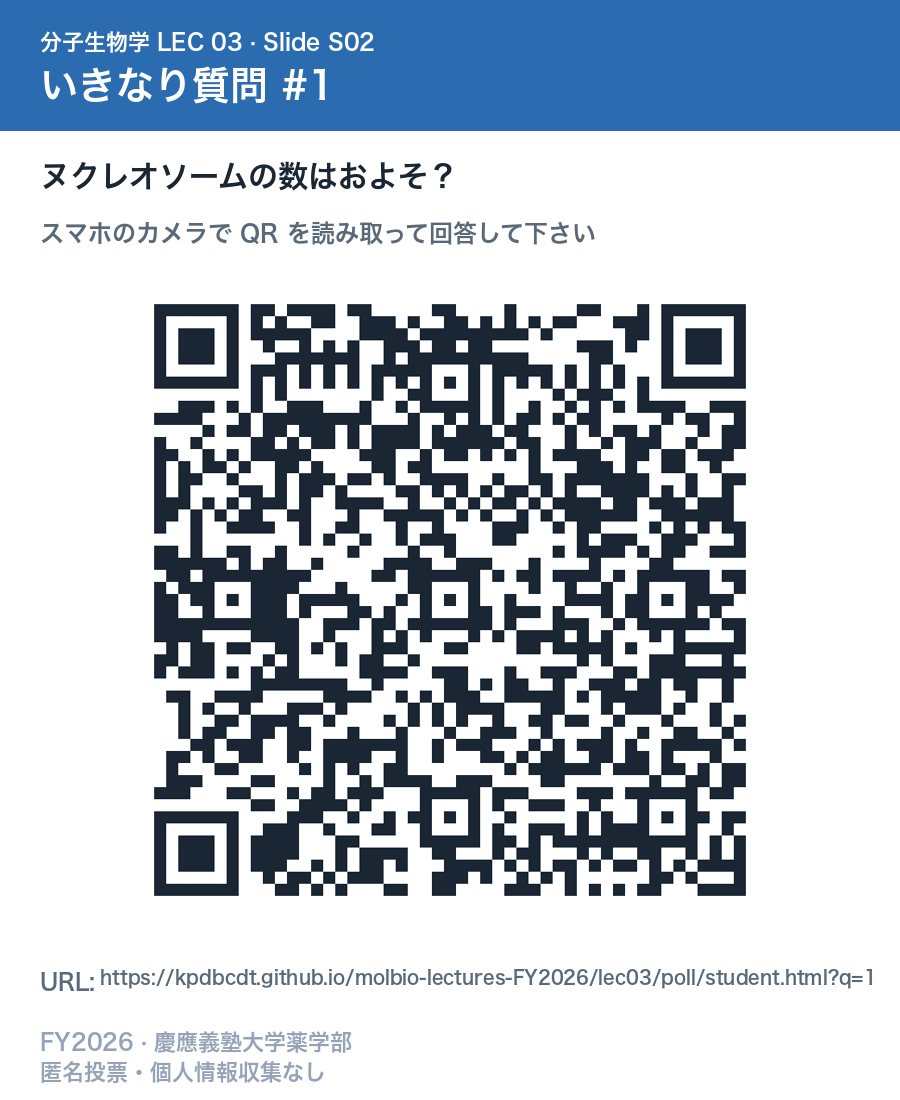
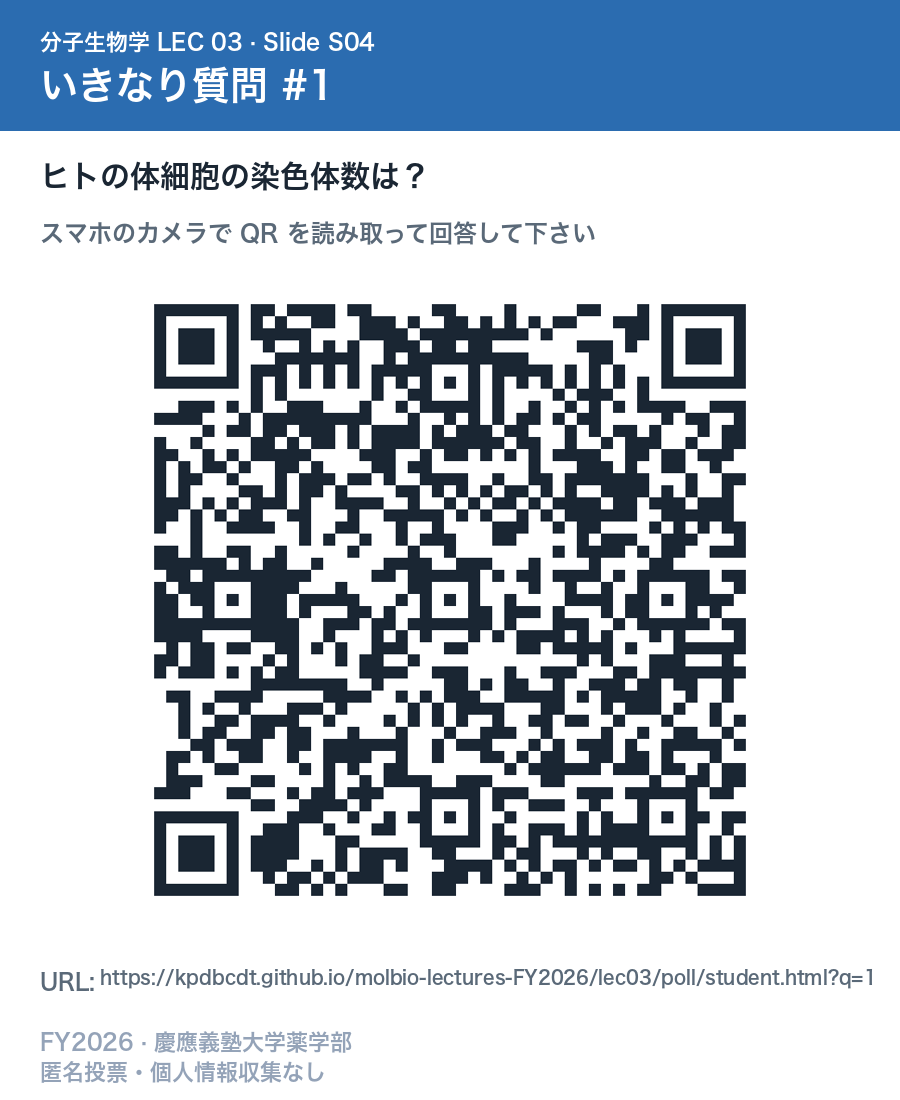
Lec03: align poll-data.js with actual PPTX slides, remove Q3
PPTX only has 2 いきなり質問 slides (S04 染色体数, S12 テロメア長),
so poll-data.js was reconciled:
- Q1: slide S04, chromosome count (23/46/48/92), correct=46
- Q2: slide S12, telomere length (100/1k/10k/100k bp), correct=10kbp
- Q3: removed (no matching PPTX slide)

Firestore rules updated: polls_lec03 allowlist ['q1','q2'].
instructor.html Q3 button removed.
generate_qr.py updated; qr_q3.png removed; QR codes regenerated.

Changed region(s): [[0.0311, 0.1236, 0.4978, 0.1855], [0.4044, 0.0309, 0.4356, 0.0618]]

diff --git a/lec03/poll/poll-data.js b/lec03/poll/poll-data.js
@@ -1,44 +1,31 @@
 // Poll questions for Lec03 — 染色体とゲノム
-// q1-q3: いきなり質問
+// q1-q2: いきなり質問 (matches PPTX S04, S12)
 
 export const POLLS = {
   q1: {
     id: 'q1',
-    slide: 'S02',
-    stem: 'ヒトの1つの細胞核に含まれるヌクレオソームの数はおよそ？',
+    slide: 'S04',
+    stem: 'ヒトの体細胞の染色体数はいくつ？',
     options: [
-      '約3万個',
-      '約30万個',
-      '約3,000万個',
-      '約3億個',
+      '23本',
+      '46本',
+      '48本',
+      '92本',
     ],
-    correct: 2,
-    reveal: '答え: C) 約3,000万個。ヒトゲノム（一倍体 3.2×10⁹ bp）÷ ヌクレオソーム繰り返し単位 200 bp = 約1,600万個。二倍体では約3,200万個 ≈ 3,000万個。これが今日の主役、クロマチンの基本単位です。',
+    correct: 1,
+    reveal: '答え: B) 46本。ヒト体細胞は 2n=46 (22対の常染色体 + 1対の性染色体 XX/XY)。歴史的小話: 1956年の Tjio & Levan 以前は「48本」が通説 (1923年 Painter の誤り) — 染色体調製技術 (低張液処理で膨潤) の改良で正しい数が判明。チンパンジーは 2n=48。ヒトの2番染色体は、類人猿の2A+2Bが融合してできた (末端融合の痕跡が2q13-14に残る)。',
   },
   q2: {
     id: 'q2',
-    slide: 'S03',
-    stem: '以下の生物のうち、ゲノムサイズが最も大きいのはどれ？',
+    slide: 'S12',
+    stem: 'ヒト新生児のテロメア DNA の長さはおよそ？',
     options: [
-      'ヒト（3,100 Mb）',
-      'イネ（400 Mb）',
-      '肺魚（130,000 Mb）',
-      '酵母（12 Mb）',
+      '約 100 塩基対',
+      '約 1,000 塩基対 (1 kbp)',
+      '約 10,000 塩基対 (10 kbp)',
+      '約 100,000 塩基対 (100 kbp)',
     ],
     correct: 2,
-    reveal: '答え: C) 肺魚（約130,000 Mb = 130 Gbp）。ヒトの約40倍。これがC値パラドックス — ゲノムサイズは生物の複雑さと比例しない。今日の後半で詳しく見ます。',
-  },
-  q3: {
-    id: 'q3',
-    slide: 'S04',
-    stem: 'ヒト同士のゲノムを比較すると、SNP（一塩基多型）はおよそ何塩基に1箇所見つかる？',
-    options: [
-      '100塩基に1つ',
-      '1,000塩基に1つ',
-      '10,000塩基に1つ',
-      '100,000塩基に1つ',
-    ],
-    correct: 1,
-    reveal: '答え: B) 約1,000塩基に1つ（0.1%の違い）。1000 Genomes Projectの結果。ヒト同士は遺伝的に99.9%同じ。残り0.1%の違いが個人差を生んでいる。',
+    reveal: '答え: C) 約 10,000 塩基対 (10 kbp)。新生児のテロメアは 10-15 kbp、高齢者では 4-7 kbp まで短縮する。1回の細胞分裂あたり約 50-200 bp 短縮 (末端複製問題)。正常体細胞は約 50-70 回分裂でヘイフリック限界 → 細胞老化。がん細胞の 85-90% はテロメラーゼを再活性化して無限増殖する。残り 10-15% は ALT (Alternative Lengthening of Telomeres)。',
   },
 };

diff --git a/lec03/poll/instructor.html b/lec03/poll/instructor.html
@@ -214,7 +214,6 @@
 <div class="qnav">
   <button data-q="1">Q1</button>
   <button data-q="2">Q2</button>
-  <button data-q="3">Q3</button>
 </div>
 
 <header>
@@ -348,12 +347,12 @@ document.getElementById('btn-reset').addEventListener('click', async () => {
 });
 
 document.getElementById('btn-reset-all').addEventListener('click', async () => {
-  if (!confirm('⚠ Q1 〜 Q3 のすべての投票をリセットしますか？\n\n講義開始直前に実行してください。\n（全カウントを 0 に戻し、正解公開状態も解除）')) return;
+  if (!confirm('⚠ Q1 〜 Q2 のすべての投票をリセットしますか？\n\n講義開始直前に実行してください。\n（全カウントを 0 に戻し、正解公開状態も解除）')) return;
   const btn = document.getElementById('btn-reset-all');
   btn.disabled = true;
   btn.textContent = 'リセット中…';
   try {
-    for (let q = 1; q <= 3; q++) {
+    for (let q = 1; q <= 2; q++) {
       const pollDoc = doc(db, 'polls_lec03', 'q' + q);
       await setDoc(pollDoc, {
         votes: { A: 0, B: 0, C: 0, D: 0 },

diff --git a/lec03/poll/generate_qr.py b/lec03/poll/generate_qr.py
@@ -13,9 +13,8 @@ BASE_URL = "https://kpdbcdt.github.io/molbio-lectures-FY2026/lec03/poll/student.
 OUT_DIR = os.path.dirname(os.path.abspath(__file__))
 
 QUESTIONS = {
-    1: ("S02", "ヌクレオソームの数はおよそ？"),
-    2: ("S03", "ゲノムサイズが最も大きい生物は？"),
-    3: ("S04", "SNP は何塩基に 1 つ？"),
+    1: ("S04", "ヒトの体細胞の染色体数は？"),
+    2: ("S12", "新生児テロメアの長さは？"),
 }
 
 
